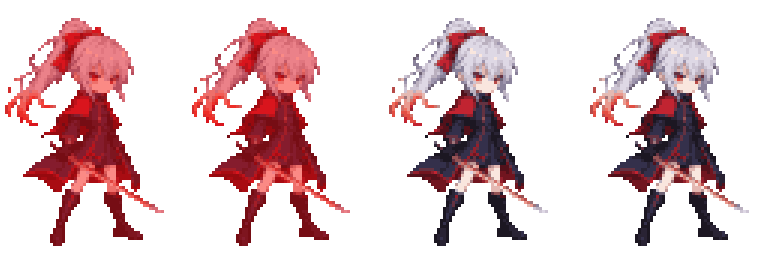
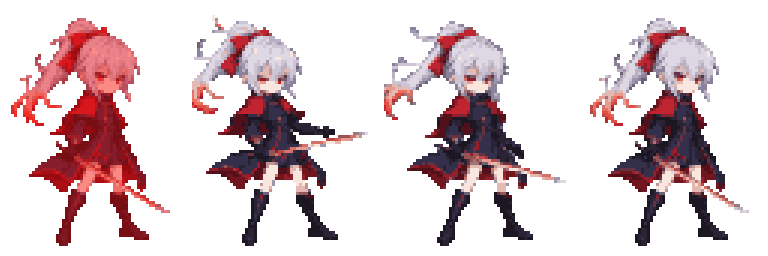
feat(art): complete Sera's motion set; fix idle ponytail seam
- idle: underlay the swaying hair so the rect edge no longer leaves a
  transparent vertical gap (frames 4-6)
- PixelLab-generated attack_a/attack_b/skill/hurt/down, normalised to the
  base palette by motion.mjs; game uses attack_a and hurt
- per-hero sheet timing (Sera: idle 8f/1200, attack 6f/600, hurt 4f/400)
- source assets and character.json in art/characters/default

diff --git a/src/Client/src/screens/battleScreen/actorVisualManifest.ts b/src/Client/src/screens/battleScreen/actorVisualManifest.ts
@@ -28,8 +28,23 @@ function isHeroId(value: string | undefined): value is HeroId {
   return !!value && (HERO_IDS as readonly string[]).includes(value)
 }
 
+type SheetTiming = Pick<SpriteSheetDemo, 'frameCount' | 'durationMs'>
+
+/**
+ * 新規格（docs/proposed-graphics-asset-pipeline.md）で作り直したキャラのフレーム数と時間。
+ * ここにないキャラは旧素材の値を使う。
+ */
+const HERO_SHEET_TIMING: Partial<Record<HeroId, Partial<Record<CharacterMotion, SheetTiming>>>> = {
+  default: {
+    idle: { frameCount: 8, durationMs: 1200 },
+    attack: { frameCount: 6, durationMs: 600 },
+    hurt: { frameCount: 4, durationMs: 400 },
+  },
+}
+
 function heroVisual(id: HeroId): ActorVisual {
   const root = `/characters/${id}`
+  const timing = HERO_SHEET_TIMING[id] ?? {}
   return {
     image: `${root}_stand.png`,
     portrait: resolveCharacterPortrait(id),
@@ -41,6 +56,7 @@ function heroVisual(id: HeroId): ActorVisual {
         frameCount: 8,
         durationMs: 1600,
         loop: true,
+        ...timing.idle,
       },
       attack: {
         src: `${root}_attack.png`,
@@ -50,6 +66,7 @@ function heroVisual(id: HeroId): ActorVisual {
         frameCount: 4,
         durationMs: 480,
         loop: false,
+        ...timing.attack,
       },
       hurt: {
         src: `${root}_hurt.png`,
@@ -58,6 +75,7 @@ function heroVisual(id: HeroId): ActorVisual {
         frameCount: 4,
         durationMs: 440,
         loop: false,
+        ...timing.hurt,
       },
     },
   }

diff --git a/src/Client/src/screens/battleScreen/actorVisualManifest.test.ts b/src/Client/src/screens/battleScreen/actorVisualManifest.test.ts
@@ -18,13 +18,15 @@ describe('actorVisualManifest', () => {
 
     expect(visual?.image).toBe(`/characters/${id}_stand.png`)
     expect(visual?.portrait).toBe(`/characters/portraits/${id}.png`)
+    // セラ（default）は新規格で作り直したモーション。他のキャラは旧素材の値。
+    const remade = id === 'default'
     expect(visual?.animations?.idle?.frameCount).toBe(8)
-    expect(visual?.animations?.idle?.durationMs).toBe(1600)
-    expect(visual?.animations?.attack?.frameCount).toBe(4)
+    expect(visual?.animations?.idle?.durationMs).toBe(remade ? 1200 : 1600)
+    expect(visual?.animations?.attack?.frameCount).toBe(remade ? 6 : 4)
     expect(visual?.animations?.attack?.frameWidth).toBe(384)
-    expect(visual?.animations?.attack?.durationMs).toBe(480)
+    expect(visual?.animations?.attack?.durationMs).toBe(remade ? 600 : 480)
     expect(visual?.animations?.hurt?.frameCount).toBe(4)
-    expect(visual?.animations?.hurt?.durationMs).toBe(440)
+    expect(visual?.animations?.hurt?.durationMs).toBe(remade ? 400 : 440)
   })
 
   it('routes enemy and summon art to separate asset namespaces', () => {

diff --git a/src/Client/src/screens/battleScreen/dtoAdapter.test.ts b/src/Client/src/screens/battleScreen/dtoAdapter.test.ts
@@ -93,15 +93,15 @@ describe('toCharacterDemo', () => {
         frameWidth: 192,
         frameHeight: 256,
         frameCount: 8,
-        durationMs: 1600,
+        durationMs: 1200,
         loop: true,
       },
       attack: {
         src: '/characters/default_attack.png',
         frameWidth: 384,
         frameHeight: 256,
-        frameCount: 4,
-        durationMs: 480,
+        frameCount: 6,
+        durationMs: 600,
         loop: false,
       },
       hurt: {
@@ -109,7 +109,7 @@ describe('toCharacterDemo', () => {
         frameWidth: 192,
         frameHeight: 256,
         frameCount: 4,
-        durationMs: 440,
+        durationMs: 400,
         loop: false,
       },
     })

diff --git a/docs/art/characters/striker_sera.md b/docs/art/characters/striker_sera.md
@@ -52,4 +52,33 @@
 - 原画を init にした PixelLab 再生成（strength 150/300）: 絵としては整うが、原画をそのまま縮小・減色した版の方が良かった。
 
 作業ファイルは `art-work/sera/`（git 管理外）にある。
-attack / hurt は仮のもの（基本画像の平行移動と赤フラッシュ）で、PixelLab のアニメーション生成で置き換える予定。
+
+待機の修正: 揺らす矩形の右端に 1 列の透明な隙間ができ、5〜7 コマ目でポニーテールに縦の切れ目が出ていた。
+`idle.mjs` で揺れ部分を元の位置に敷いてから重ねるように直した（隙間検出で全フレーム 0 を確認）。
+
+### モーション（2026-11-25）
+
+1. `base.png` を 128×96 のキャンバス（左 24px・上 16px の余白）に置き、`base_128x96.png` にする。剣を振る余白のため。
+2. PixelLab `animate-with-text-v3` で生成する。`last_frame` に基本画像を渡すと構えに戻る。
+   出力は「入力と同じ 1 枚目 + 指定フレーム数」なので、1 枚目は捨てる。
+3. `tools/art-pipeline/motion.mjs` で整える:
+   - 基本パレットへ寄せる（遠い色だけ最大 8 色を追加。奥義の光など）。
+   - ゲーム用シートを作る（×3、足元 245 行）。
+   - 浮いたエフェクトを消す（`--main-only`、`--clear-above`）。
+   - ノックバックと赤フラッシュを付ける（`--offset-x`、`--tint`）。
+
+| モーション | action（要約） | フレーム | 消費 | 採用 |
+|---|---|---|---|---|
+| attack_a | 踏み込んで横一閃 | 6 | 2 | 1 回目 |
+| attack_b | 下から斜め上へ斬り上げ（`character only, no effects` 指定） | 6 | 2 | 2 回目（1 回目は頭に白い閃光が被った） |
+| skill | 構え → 刀身に赤い残光 → 光る斬撃 | 8 | 2 | 1 回目 |
+| hurt | 被弾してのけぞる | 4 | 1 | 2 回目の 2〜4 コマ。1 コマ目は基本画像の赤フラッシュ。頭上のエフェクトは消した |
+| down | 崩れ落ちて倒れる | 6 | 2 | 1 回目 |
+
+効果音のようなエフェクトが勝手に付きやすいので、action の先頭に
+`character only, no effects, no particles` を入れると安定する。
+
+原寸の素材とフレーム設定は `art/characters/default/`（`character.json`）に置いた。
+ゲームで使っているのは idle / attack（= attack_a）/ hurt。
+attack_b / skill / down は、ゲーム側にそのモーションの枠ができたら組み込む。
+skill は剣を振り上げるため、今の 192×256 枠では上が 27px 切れる。組み込むときは上の余白が大きい枠にする。
